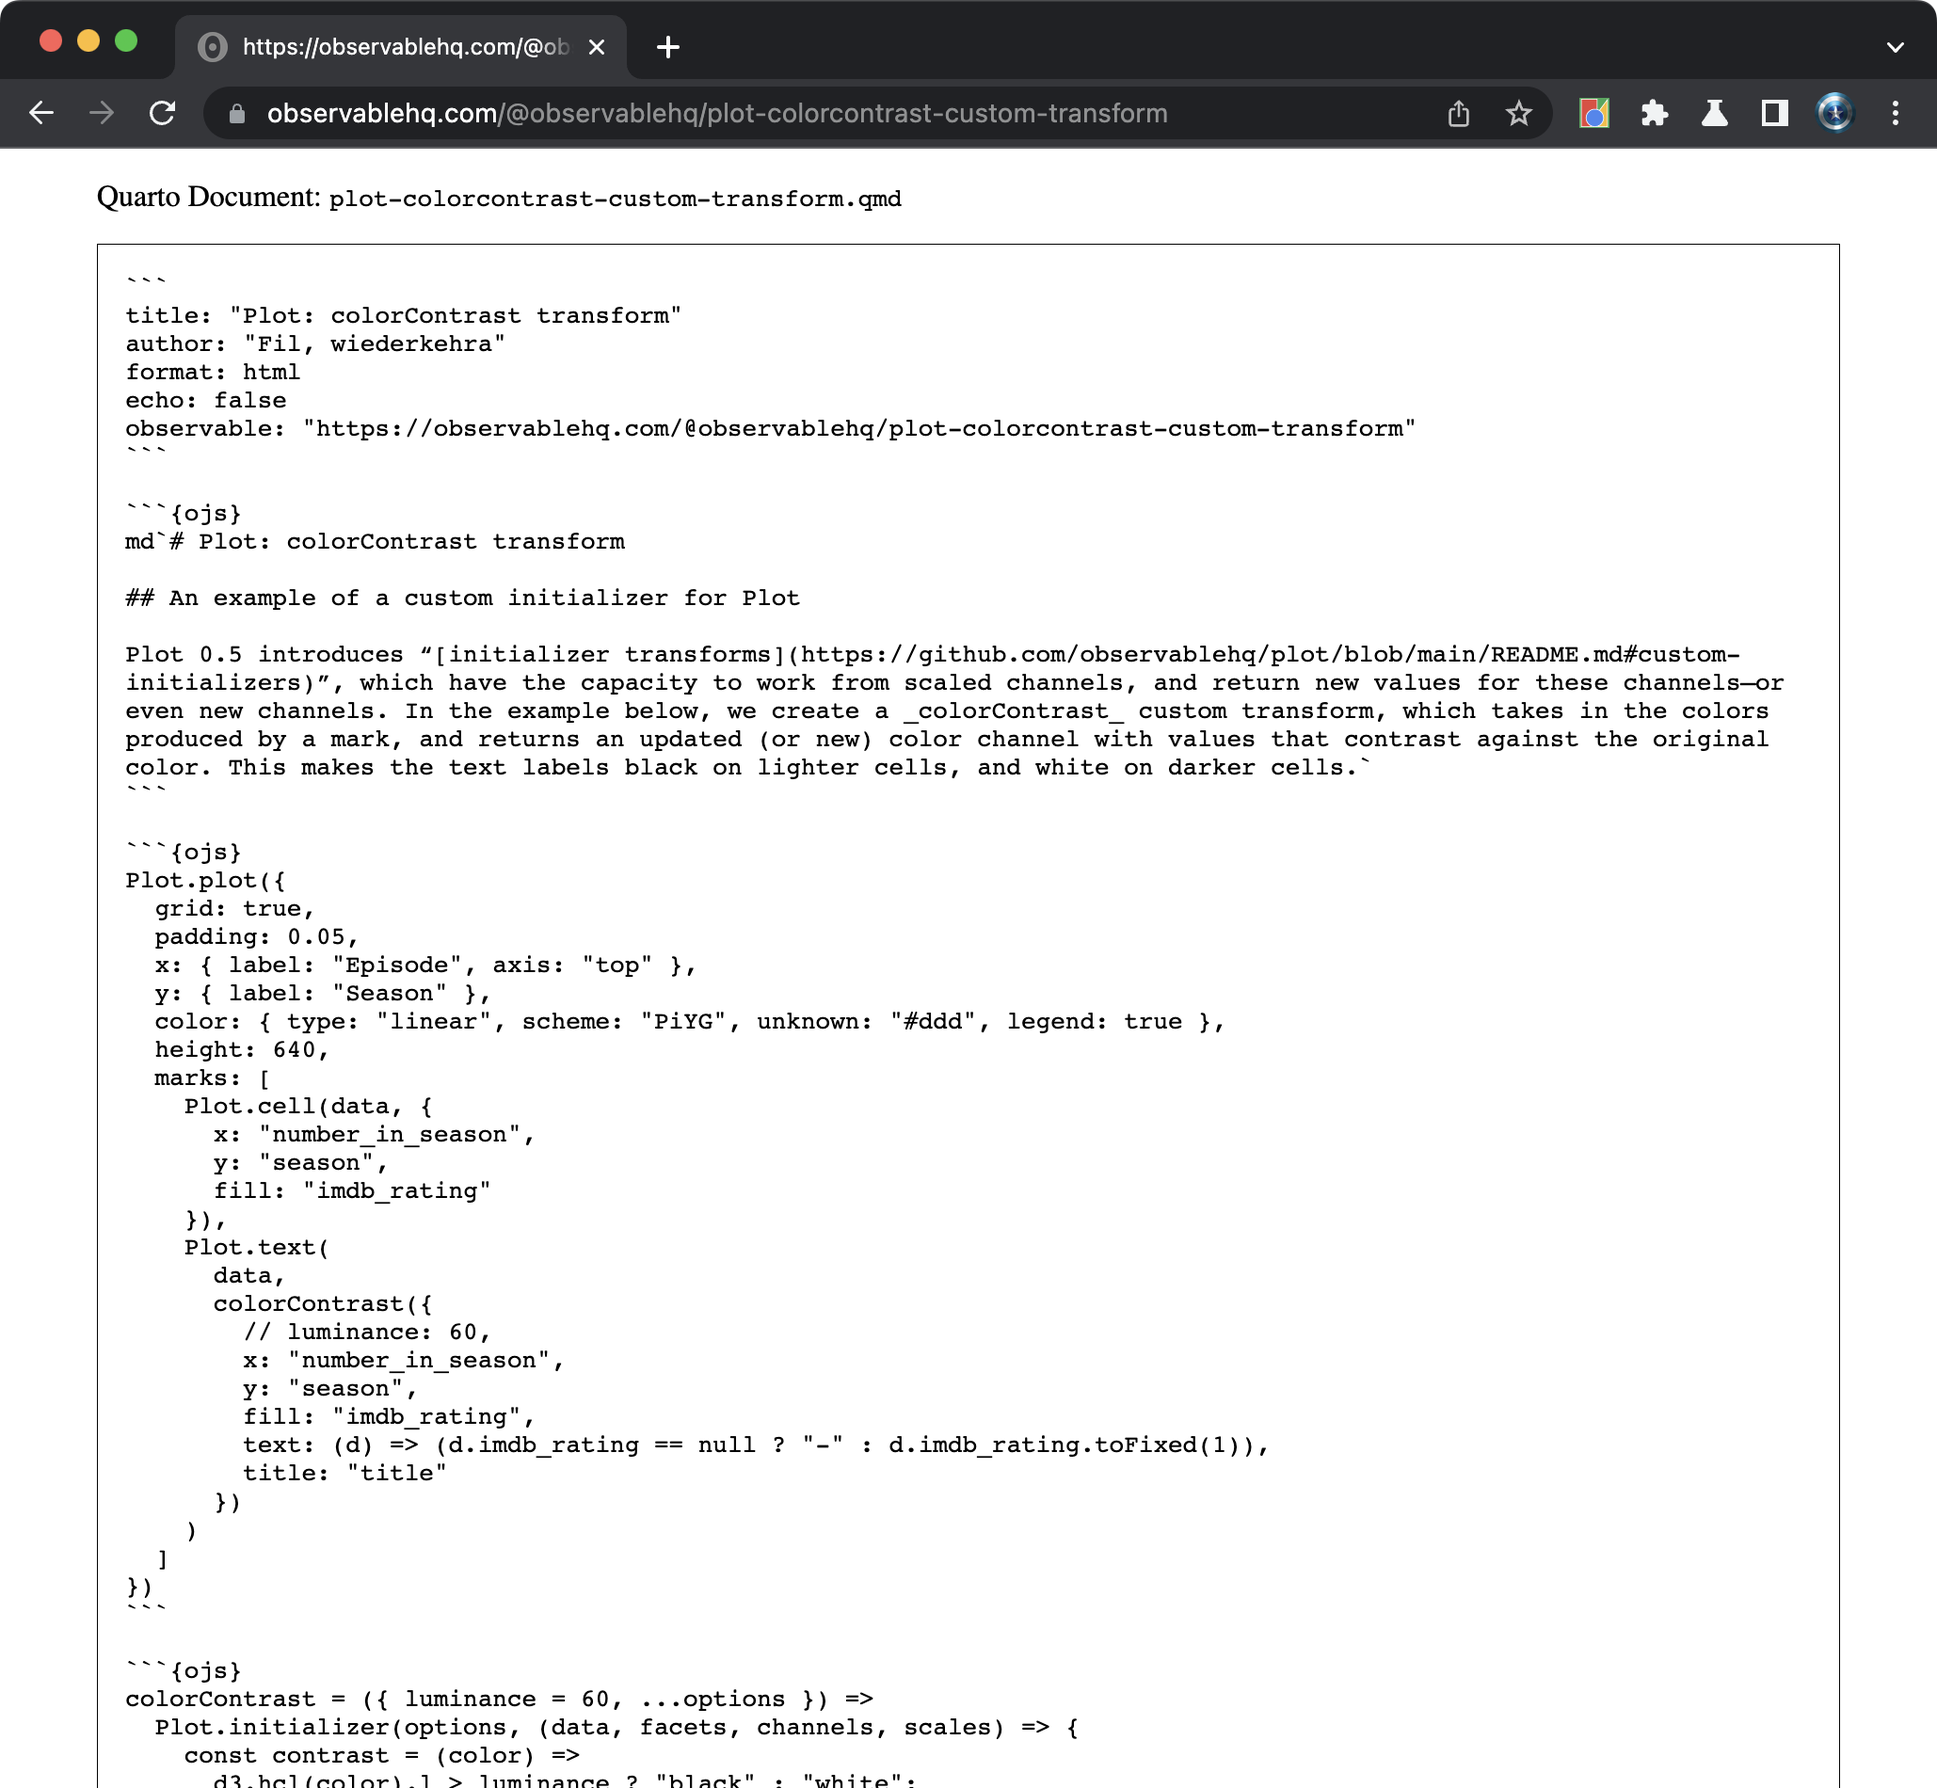
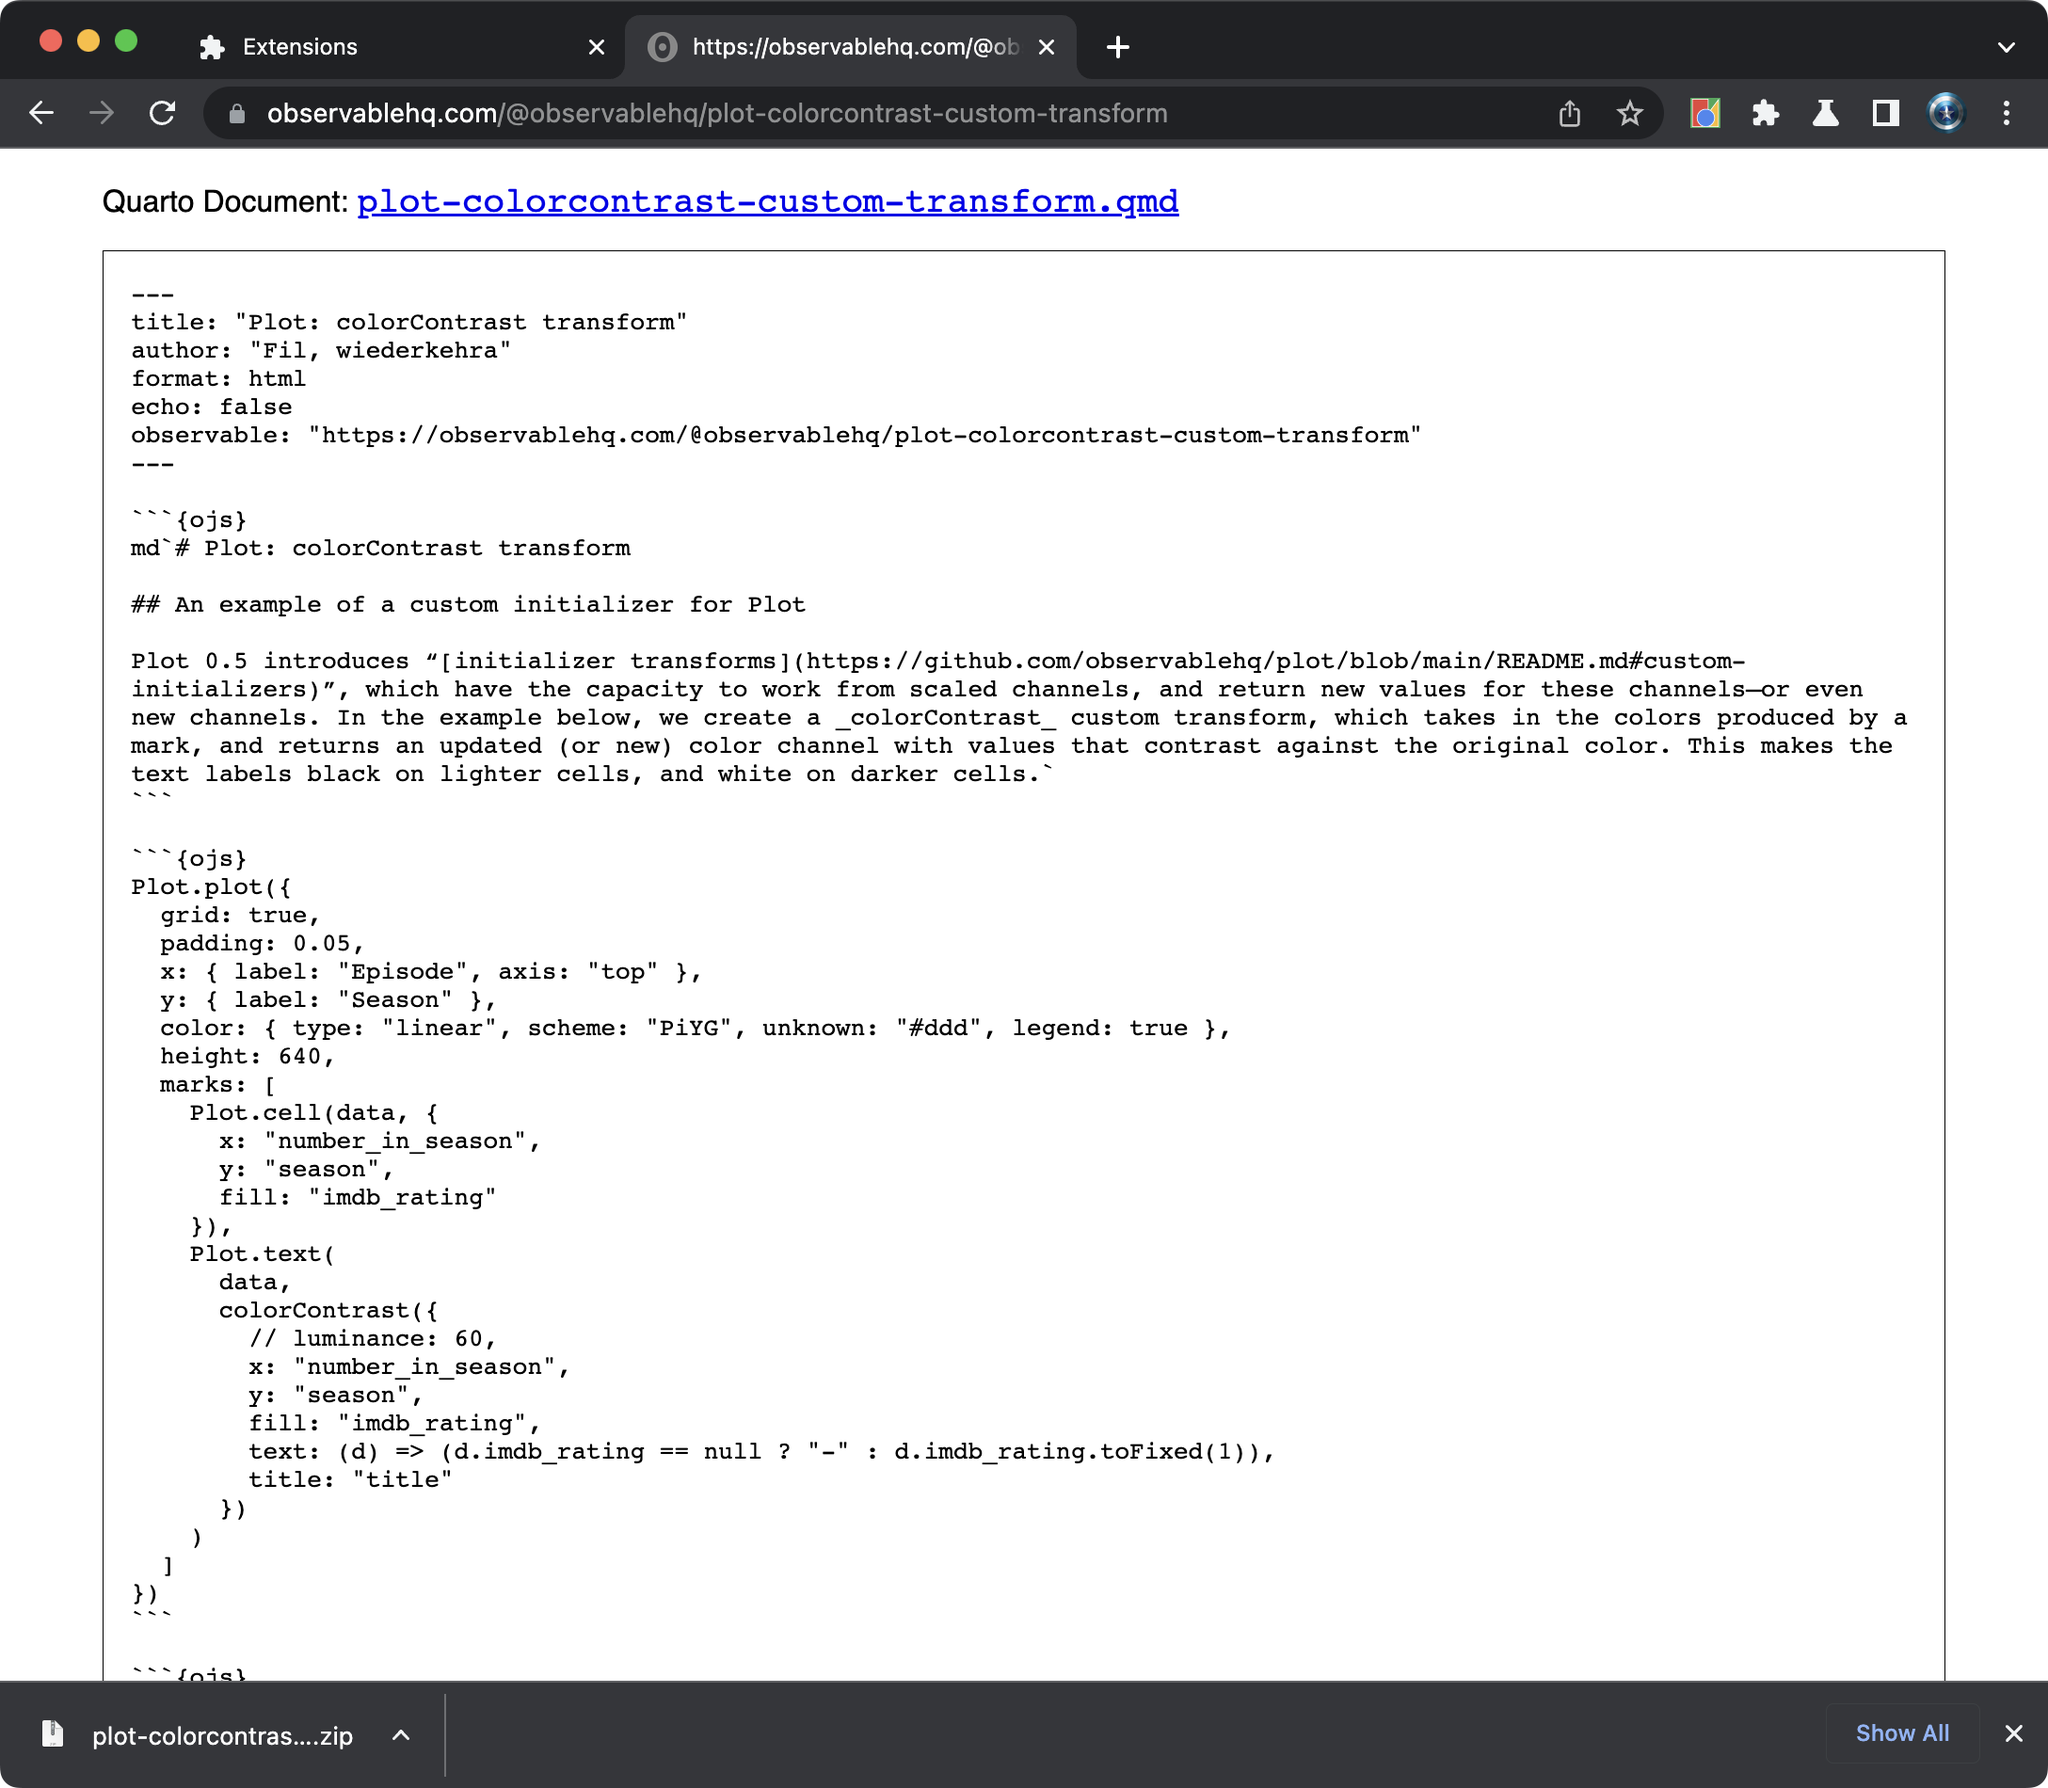
fix: qmd yaml header
feat: quarto project zip file download

chore: updated one screenshot

diff --git a/FileSaver.js b/FileSaver.js
@@ -1,0 +1,172 @@
+/*
+* FileSaver.js
+* A saveAs() FileSaver implementation.
+*
+* By Eli Grey, http://eligrey.com
+*
+* License : https://github.com/eligrey/FileSaver.js/blob/master/LICENSE.md (MIT)
+* source  : http://purl.eligrey.com/github/FileSaver.js
+*/
+
+// The one and only way of getting global scope in all environments
+// https://stackoverflow.com/q/3277182/1008999
+var _global = typeof window === 'object' && window.window === window
+  ? window : typeof self === 'object' && self.self === self
+  ? self : typeof global === 'object' && global.global === global
+  ? global
+  : this
+
+function bom (blob, opts) {
+  if (typeof opts === 'undefined') opts = { autoBom: false }
+  else if (typeof opts !== 'object') {
+    console.warn('Deprecated: Expected third argument to be a object')
+    opts = { autoBom: !opts }
+  }
+
+  // prepend BOM for UTF-8 XML and text/* types (including HTML)
+  // note: your browser will automatically convert UTF-16 U+FEFF to EF BB BF
+  if (opts.autoBom && /^\s*(?:text\/\S*|application\/xml|\S*\/\S*\+xml)\s*;.*charset\s*=\s*utf-8/i.test(blob.type)) {
+    return new Blob([String.fromCharCode(0xFEFF), blob], { type: blob.type })
+  }
+  return blob
+}
+
+function download (url, name, opts) {
+  var xhr = new XMLHttpRequest()
+  xhr.open('GET', url)
+  xhr.responseType = 'blob'
+  xhr.onload = function () {
+    saveAs(xhr.response, name, opts)
+  }
+  xhr.onerror = function () {
+    console.error('could not download file')
+  }
+  xhr.send()
+}
+
+function corsEnabled (url) {
+  var xhr = new XMLHttpRequest()
+  // use sync to avoid popup blocker
+  xhr.open('HEAD', url, false)
+  try {
+    xhr.send()
+  } catch (e) {}
+  return xhr.status >= 200 && xhr.status <= 299
+}
+
+// `a.click()` doesn't work for all browsers (#465)
+function click (node) {
+  try {
+    node.dispatchEvent(new MouseEvent('click'))
+  } catch (e) {
+    var evt = document.createEvent('MouseEvents')
+    evt.initMouseEvent('click', true, true, window, 0, 0, 0, 80,
+                          20, false, false, false, false, 0, null)
+    node.dispatchEvent(evt)
+  }
+}
+
+// Detect WebView inside a native macOS app by ruling out all browsers
+// We just need to check for 'Safari' because all other browsers (besides Firefox) include that too
+// https://www.whatismybrowser.com/guides/the-latest-user-agent/macos
+var isMacOSWebView = _global.navigator && /Macintosh/.test(navigator.userAgent) && /AppleWebKit/.test(navigator.userAgent) && !/Safari/.test(navigator.userAgent)
+
+var saveAs = _global.saveAs || (
+  // probably in some web worker
+  (typeof window !== 'object' || window !== _global)
+    ? function saveAs () { /* noop */ }
+
+  // Use download attribute first if possible (#193 Lumia mobile) unless this is a macOS WebView
+  : ('download' in HTMLAnchorElement.prototype && !isMacOSWebView)
+  ? function saveAs (blob, name, opts) {
+    var URL = _global.URL || _global.webkitURL
+    // Namespace is used to prevent conflict w/ Chrome Poper Blocker extension (Issue #561)
+    var a = document.createElementNS('http://www.w3.org/1999/xhtml', 'a')
+    name = name || blob.name || 'download'
+
+    a.download = name
+    a.rel = 'noopener' // tabnabbing
+
+    // TODO: detect chrome extensions & packaged apps
+    // a.target = '_blank'
+
+    if (typeof blob === 'string') {
+      // Support regular links
+      a.href = blob
+      if (a.origin !== location.origin) {
+        corsEnabled(a.href)
+          ? download(blob, name, opts)
+          : click(a, a.target = '_blank')
+      } else {
+        click(a)
+      }
+    } else {
+      // Support blobs
+      a.href = URL.createObjectURL(blob)
+      setTimeout(function () { URL.revokeObjectURL(a.href) }, 4E4) // 40s
+      setTimeout(function () { click(a) }, 0)
+    }
+  }
+
+  // Use msSaveOrOpenBlob as a second approach
+  : 'msSaveOrOpenBlob' in navigator
+  ? function saveAs (blob, name, opts) {
+    name = name || blob.name || 'download'
+
+    if (typeof blob === 'string') {
+      if (corsEnabled(blob)) {
+        download(blob, name, opts)
+      } else {
+        var a = document.createElement('a')
+        a.href = blob
+        a.target = '_blank'
+        setTimeout(function () { click(a) })
+      }
+    } else {
+      navigator.msSaveOrOpenBlob(bom(blob, opts), name)
+    }
+  }
+
+  // Fallback to using FileReader and a popup
+  : function saveAs (blob, name, opts, popup) {
+    // Open a popup immediately do go around popup blocker
+    // Mostly only available on user interaction and the fileReader is async so...
+    popup = popup || open('', '_blank')
+    if (popup) {
+      popup.document.title =
+      popup.document.body.innerText = 'downloading...'
+    }
+
+    if (typeof blob === 'string') return download(blob, name, opts)
+
+    var force = blob.type === 'application/octet-stream'
+    var isSafari = /constructor/i.test(_global.HTMLElement) || _global.safari
+    var isChromeIOS = /CriOS\/[\d]+/.test(navigator.userAgent)
+
+    if ((isChromeIOS || (force && isSafari) || isMacOSWebView) && typeof FileReader !== 'undefined') {
+      // Safari doesn't allow downloading of blob URLs
+      var reader = new FileReader()
+      reader.onloadend = function () {
+        var url = reader.result
+        url = isChromeIOS ? url : url.replace(/^data:[^;]*;/, 'data:attachment/file;')
+        if (popup) popup.location.href = url
+        else location = url
+        popup = null // reverse-tabnabbing #460
+      }
+      reader.readAsDataURL(blob)
+    } else {
+      var URL = _global.URL || _global.webkitURL
+      var url = URL.createObjectURL(blob)
+      if (popup) popup.location = url
+      else location.href = url
+      popup = null // reverse-tabnabbing #460
+      setTimeout(function () { URL.revokeObjectURL(url) }, 4E4) // 40s
+    }
+  }
+)
+
+_global.saveAs = saveAs.saveAs = saveAs
+
+if (typeof module !== 'undefined') {
+  module.exports = saveAs;
+}

diff --git a/popup.js b/popup.js
@@ -4,16 +4,6 @@ revealQuarto.addEventListener("click", async () => {
 
   let [tab] = await chrome.tabs.query({ active: true, currentWindow: true })
 
-  // chrome.scripting.executeScript({
-  //   target: {tabId: tab.id},
-  //   files: ['jszip.js'],
-  // },
-  //   () => { 
-  //   console.log("HERE")
-  //   var zip = new JSZip()
-  //   console.log(zip)
-  // })
-
   chrome.scripting.executeScript({
     target: { tabId: tab.id },
     function: quartize,
@@ -24,6 +14,16 @@ revealQuarto.addEventListener("click", async () => {
 
 function quartize(tabUrl) {
 
+  function shquote(s) {
+    if (s === '') { return '\'\'' }
+
+    const unsafeRe = /[^\w@%\-+=:,./]/
+    if (!unsafeRe.test(s)) { return s }
+
+    return ('\'' + s.replace(/('+)/g, '\'"$1"\'') + '\'').replace(/^''|''$/g, '')
+
+  }
+
   ohq_json = JSON.parse(document.getElementById("__NEXT_DATA__").innerText)
 
   nb = ohq_json.props.pageProps.initialNotebook
@@ -31,14 +31,13 @@ function quartize(tabUrl) {
   title = nb.title
   authors = nb.authors.map(d => d.name).join(", ")
 
-  qmd = "```\n"
+  qmd = "---\n"
   qmd += `title: "${title}"\n`
   qmd += `author: "${authors}"\n`
   qmd += `format: html\n`
   qmd += "echo: false\n"
   qmd += `observable: "${tabUrl}"\n`
-
-  qmd += "```\n\n"
+  qmd += "---\n\n"
 
   qmd += nodes.map(node => {
 
@@ -72,22 +71,59 @@ function quartize(tabUrl) {
   
   file_html = ""
 
+  const qmd_blob = new Blob([ qmd ], { type: 'text/markdown' });
+  const qmd_url = URL.createObjectURL(qmd_blob);
+
+  const title_quoted = shquote(title)
+
+  const yaml_blob = new Blob([ "project:\n" + `  title: ${title_quoted}` ], { type: 'text/yaml' });
+  const yaml_url = URL.createObjectURL(yaml_blob);  
+
+  var zip = new JSZip()
+
+  zip.file(`${nb.slug}/_quarto.yml`, yaml_blob);
+  zip.file(`${nb.slug}/${nb.slug}.qmd`, qmd_blob);
+
   if (nb.files.length > 0) {
 
-    file_html = "<p>File Attachments:</p>\n" + "<ul>" + nb.files.map(file => 
+    Promise.all(
+      nb.files.map(file => fetch(file.download_url).then(response => {
+        return({ name: file.name, blob: response.blob() })
+      }))
+    ).then(files => {
+
+      files.forEach(file => {
+        zip.file(`${nb.slug}/${file.name}`, file.blob);
+      })
+
+      zip.generateAsync({ type: "blob" })
+        .then(function (content) {
+          saveAs(content, `${nb.slug}.zip`)
+        }, function (err) {
+          console.log(err)
+        })
+      
+    })
+
+    file_html = "<p>File Attachments:</p>\n" + "<ul>" + nb.files.map(file =>
       `<li><a href="${file.download_url}" download="${file.name}">${file.name}</a></li>`
     ).join("\n") + "</ul>\n"
 
+  } else {
+
+    zip.generateAsync({ type: "blob" })
+      .then(function (content) {
+        saveAs(content, `${nb.slug}.zip`)
+      }, function (err) {
+        console.log(err)
+      });
+    
   }
 
-  var zip = new JSZip()
   console.log(zip)
 
-  const blob = new Blob([ qmd ], { type: 'text/markdown' });
-  const url = URL.createObjectURL(blob);
-
   div.innerHTML = doc + file_html +
-    `<p>Quarto Document: <a download="${nb.slug}.qmd" href="${url}"><code>${nb.slug}.qmd</code></a></p>`
+    `<p>Quarto Document: <a download="${nb.slug}.qmd" href="${qmd_url}"><code>${nb.slug}.qmd</code></a></p>`
 
   var pre = document.createElement('pre')
   pre.innerText = qmd
@@ -98,6 +134,5 @@ function quartize(tabUrl) {
   div.append(pre)
 
   document.getRootNode().appendChild(div)
-
   
 }

diff --git a/README.md b/README.md
@@ -12,7 +12,7 @@ In Chrome (et al) [open up Extensions](chrome://extensions/) (`chrome://extensio
 
 ![](extensions.png)
 
-Click the reveal button on any Observable page and it will be transformed into a Quarto document with links to download any `FileAttachment`s.
+Click the reveal button on any Observable page and it will be transformed into a Quarto document with links to download said document and any `FileAttachment`s. A zip archive containing a Quarto project with all the `FileAttachment`s (if any will also be downloaded).
 
 Just refresh the page to get the original Observable Notebook back.
 
